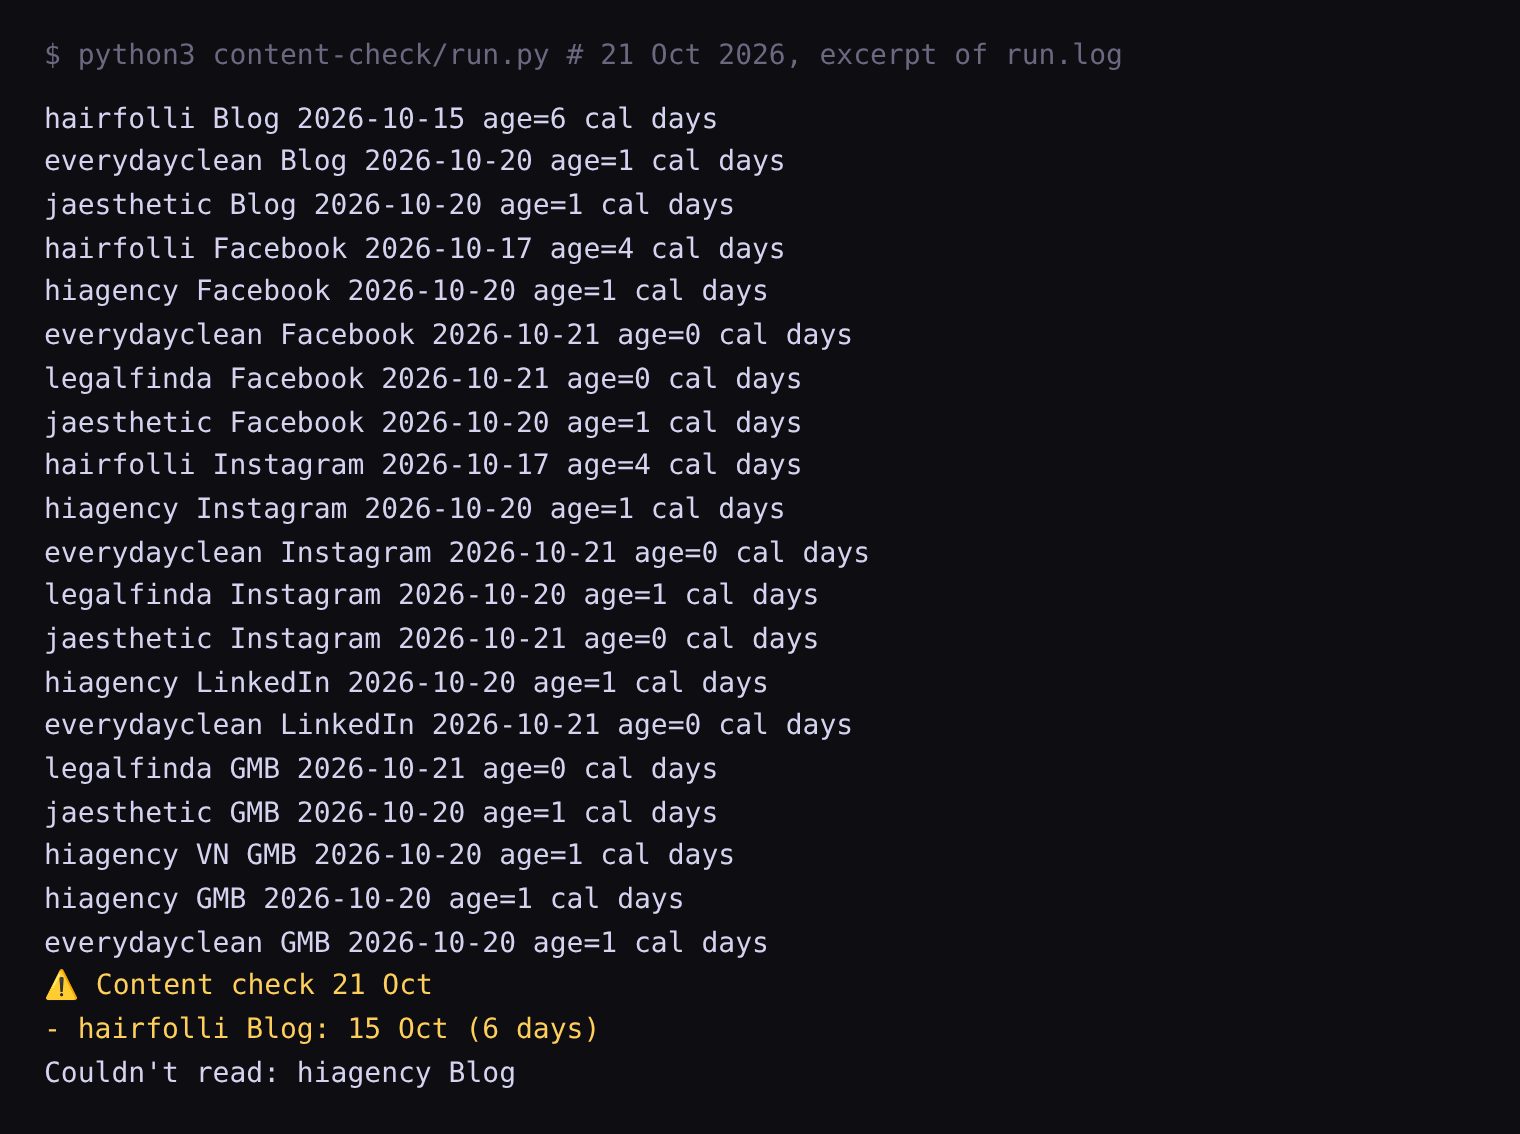
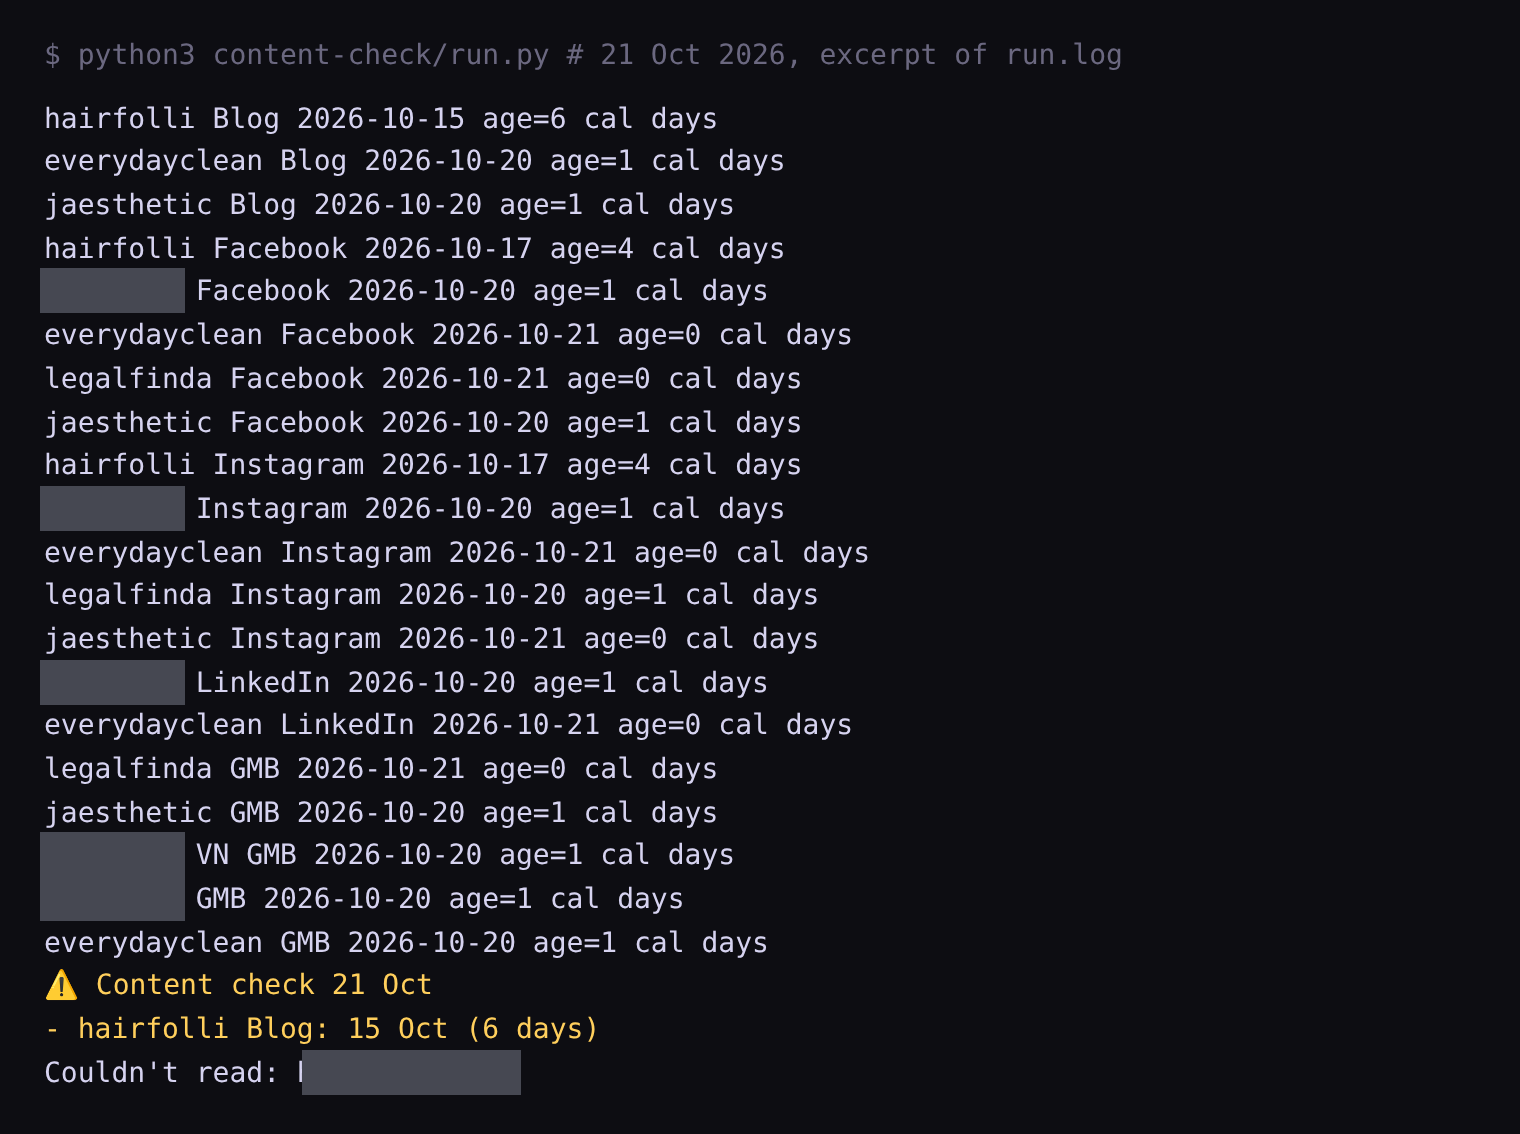
Remove HiAgency name from public pages; bar it in content-check screenshot

diff --git a/content.js b/content.js
@@ -6,7 +6,7 @@ window.TOOLS = [
  {n:"seo-content-map-publisher-skill",t:"SEO content map publisher",d:"An agent skill that turns a keyword export into intent and SERP-overlap clusters (1–15 keywords per article), a formatted Sheet, a topic mind map and a GitHub Pages site.",tag:"Content"},
  {n:"likepion-backlink-playbook",t:"Backlink campaign playbook",d:"Structured inputs for Podcast, Blog20, Google Stacking and Profile backlinks: consistent NAP, Spintax-ready copy, and explicit no-spam rules.",tag:"Backlinks"},
  {n:"hiagency-disavow",t:"Disavow SOP",d:"Review suspicious backlinks across two sources (Search Console and Semrush) before building a disavow file. Legitimate directories are never disavowed.",tag:"Backlinks"},
- {n:"daily-task-reporter-skill",t:"Daily task reporter",d:"Syncs each team member’s daily task log to the HiAgency Google Sheet, from Codex/Antigravity via one-line install, or from ChatGPT web via a 1-click bookmarklet export.",tag:"Ops"},
+ {n:"daily-task-reporter-skill",t:"Daily task reporter",d:"Syncs each team member’s daily task log to the team Google Sheet, from Codex/Antigravity via one-line install, or from ChatGPT web via a 1-click bookmarklet export.",tag:"Ops"},
  {n:"lark-base-agent-playbook",t:"Lark Base agent playbook",d:"A bilingual guide to connecting AI agents to Lark Base through Lark CLI, so they can create and update task records safely.",tag:"Ops"},
  {n:"hiagency-tracking-playbook",t:"Tracking rollout playbook",d:"SOP and handover kit for GTM, GA4 and Ads conversion setup across client projects, with an asset register and a QA checklist.",tag:"Analytics"},
  {n:"hiagency-featured-image-skill",t:"Featured image skill",d:"Paste an article into an image-capable AI and get a brand-consistent 1200×700 WebP featured image, plus alt text, with no design app.",tag:"Content"},

diff --git a/main.js b/main.js
@@ -5,7 +5,7 @@ AG.forEach((n,i)=>{const a=i/AG.length*Math.PI*2-Math.PI/2,r=i%2?170:205,x=cx+r*
  s+=`<g class="nd" style="animation-delay:${-i*.6}s"><circle cx="${x}" cy="${y}" r="7"/><text x="${x}" y="${y+(y<cy?-14:24)}">${n}</text></g>`});
 s+=`<g class="nd hub"><circle cx="${cx}" cy="${cy}" r="38"/><text x="${cx}" y="${cy+5}" style="font-weight:800;fill:#0b0b10">Daniel</text></g>`;g.innerHTML=s})();
 // Tools
-const tg=document.getElementById('toolgrid');if(tg&&window.TOOLS)tg.innerHTML=TOOLS.map(t=>`<a class="tool rv" href="https://github.com/danielnguyen241/${t.n}" target="_blank" rel="noopener"><span class="tg">${t.tag}</span><h4>${t.t}</h4><p>${t.d}</p><code>↗ ${t.n}</code></a>`).join('');
+const tg=document.getElementById('toolgrid');if(tg&&window.TOOLS)tg.innerHTML=TOOLS.map(t=>`<a class="tool rv" href="https://github.com/danielnguyen241/${t.n}" target="_blank" rel="noopener"><span class="tg">${t.tag}</span><h4>${t.t}</h4><p>${t.d}</p><code>↗ ${t.n.replace(/^hiagency-/,"")}</code></a>`).join('');
 // Cursor
 const c=document.getElementById('cur');addEventListener('mousemove',e=>{c.classList.add('on');c.style.left=e.clientX+'px';c.style.top=e.clientY+'px'});
 document.querySelectorAll('a,video,.tool,.res div').forEach(el=>{el.addEventListener('mouseenter',()=>c.classList.add('big'));el.addEventListener('mouseleave',()=>c.classList.remove('big'))});

diff --git a/index.html b/index.html
@@ -36,7 +36,7 @@
  <h2 class="rv">Backlink Automation <em>Pipeline</em></h2>
  <div class="tags rv"><span>Semrush</span><span>DataForSEO API</span><span>Google Sheets</span><span>Gmail audit</span><span>Browser agents</span><span>PDF reporting</span></div>
 
- <div class="row rv"><h3>Problem</h3><p>The agency runs several brands (HiAgency, Hair Folli, J.Aesthetic, Everyday Clean). It had a 1,818-site guest-post vendor list nobody could vet by hand, citation trackers that had drifted away from what was actually live, and no clear answer to why a local competitor outranked a client.</p></div>
+ <div class="row rv"><h3>Problem</h3><p>The agency runs several brands (Hair Folli, J.Aesthetic, Everyday Clean). It had a 1,818-site guest-post vendor list nobody could vet by hand, citation trackers that had drifted away from what was actually live, and no clear answer to why a local competitor outranked a client.</p></div>
 
  <div class="row rv"><h3>System</h3><div class="sys">
   <article class="wfcard"><header><span>Workflow 1</span>Guest-post vendor audit</header><div class="wf" data-wf="audit"></div></article>
